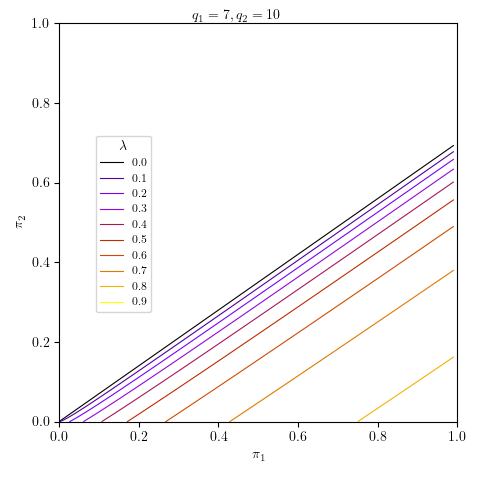
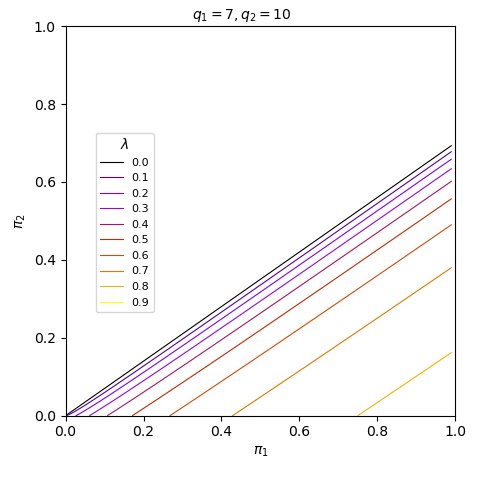
added N(s) in percolation.py

diff --git a/prw_network/percolation.py b/prw_network/percolation.py
@@ -5,6 +5,7 @@ import subprocess
 import os
 import glob
 import matplotlib.pyplot as plt
+from collections import Counter
 
 N = 492
 arena_r = 75.0
@@ -260,6 +261,44 @@ def componentsDistrBoxPlot(N, arena_r, irs, loops, infoLogFile=False):
         for i,ir in enumerate(irs):
             file.write(f'{ir}, {len(com_sizes_all_ir[i])}, {com_sizes_all_ir[i][:20]}\n')
         file.close()
+
+def plotComSizes_dif_loops(N: int, ar: float, irs: list[float], loopsList: list[int], excludeGiantComp=True, dataToFile = False, plotQuenched=True):
+    '''
+    comutes the ~power law~ like figure of the number of com of sizes s vs size s.
+    as each loop has a different critical percolation radius, a list irs has to be provided
+    '''
+    gcLabel = '' if excludeGiantComp else 'excludedGC'
+    loopsDF, irsDF, comsDF, countsDF = [], [], []
+    for ir, loops in zip(irs, loopsList):
+        com_sizes = getCommunitySizesAllTraj(N, ir, loops, excludeGiantComp=excludeGiantComp)
+        com_sizes_counter = Counter(com_sizes)
+        comsDF.extend(list(com_sizes_counter.keys()))
+        countsDF.extend(list(com_sizes_counter.values()))
+        loopsDF.extend([loops]*len(com_sizes_counter))
+        irsDF.extend([ir]*len(com_sizes_counter))
+    com_counts_df = pd.DataFrame({'loops':loopsDF, 'interac_r':irsDF, 'coms':comsDF, 'counts':countsDF})
+    com_counts_df = com_counts_df.sort_valyes(by=['loops', 'coms'], ignore_index=True)
+    if dataToFile:
+        filename = f'comSizesCounts_difLoops_N_{N}_ar_{ar}_kilombo_{gcLabel}.csv'
+        com_counts_df.to_csv(filename, index=False)
+    # plot:
+    fig, ax = plt.subplots()
+    ax.set(xlabel='s', ylabel='N(s)', xscale='log', yscale='log')
+    for ir, loops in zip(irs, loopsList):
+        auxdf = com_counts_df.query('loops == @loops')
+        ax.plot(auxdf['coms'], auxdf['counts'], label='{loops}, $r_i^{*} = {ir}', marker='.', ls='None')
+    if plotQuenched:
+        interac_r_q = 6.5 # de moment hard coded aqui
+        qDF = pd.read_csv(f'comSizesCounts_N_{N}_ar_{ar}_ir_{interac_r_q}_er_1.5_nopush_{gcLabel}.csv')
+        ax.plot(qDF['coms'], qDF['counts'], color='xkcd:gray', marker='x', ls='None', label='Quenched, r_i^{*} = {interac_r_q}')
+    fig.text(0.35, 0.97, f'$excludeGiantComp = {excludeGiantComp}$')
+    fig.legend(title='loops', loc=(0.8,0.7))
+    fig.tight_layout()
+    fig.savefig('comSizesCounts_difLoops_N_{N}_ar_{ar}_kilombo_{gcLabel}.png')
+    
+
+            
+            
 
 def componentsHistogram(N, arena_r, ir, loops):
     com_sizes = getCommunitySizesAllTraj(N, ir, loops, excludeGiantComp=True)

diff --git a/det_sols_from_polynomial/plot_Tlines_asym.py b/det_sols_from_polynomial/plot_Tlines_asym.py
@@ -22,7 +22,7 @@ def latexFont(size= 15, labelsize=18, titlesize=20, ticklabelssize=15, legendsiz
     ])    
     plt.rcParams["font.family"] = 'STIXGeneral'
 
-latexFont()
+#latexFont()
 
 
 ls = [l/10 for l in range(10)]
@@ -40,6 +40,7 @@ ax.set_aspect(1.0)
 fig.text(0.4, 0.96, rf'$q_1 = {q1}, q_2 = {q2}$')
 fig.tight_layout()
 fig.savefig(f'Tlines_asym_q1_{q1}_q2_{q2}_f2_{int(x)}f1.png')
+plt.close(fig)
 
 
 # anem a comprovar una cosa de la formula teorica de pi2:
@@ -52,6 +53,37 @@ fig.savefig(f'Tlines_asym_q1_{q1}_q2_{q2}_f2_{int(x)}f1.png')
 #     _, f0, _ = f0_lambda_neq_0(pi1, pi2, q1, q2, l)
 #     f0s.append(f0), f0lq2.append(f0*l*q2), f0lq1.append(f0*l*q1)
 
+
 # f0lq2, f0lq1 = np.array(f0lq2), np.array(f0lq1)
 # div = (1-f0lq2)/(1-f0lq1)
 # print(div)
+
+
+
+# T lines as a function of lambda; fixed pi1 (pi2 whatever)
+pi1s = [0.2, 0.4, 0.6, 0.8]
+colors = plt.cm.gnuplot(np.linspace(0,1,len(pi1s)))
+pi2s_l = [[],[],[],[]]
+for l in ls:
+    tline = pd.read_csv(f'res_files/Tline_asym_pis_q1_{q1}_q2_{q2}_l_{l}_f2_{int(x)}f1.csv')
+    for i,pi1 in enumerate(pi1s):
+        pi2 = tline.query('pi1 == @pi1')['pi2']
+        pi2s_l[i].append(pi2)
+fig, ax = plt.subplots()
+for i,pi in enumerate(pi1s):
+    ax.plot(ls, pi2s_l[i], label=f'{pi1}', color=colors[i])
+ax.set(xlabel='$\lambda$', ylabel='$\pi_2$')
+fig.text(0.4, 0.98, rf'$q_1 = {q1}, q_2 = {q2}$', fontsize=8)
+fig.tight_layout()
+fig.savefig(f'Tlines_asym_q1_{q1}_q2_{q2}_f2_{int(x)}f1_lambda.png')
+plt.close(fig)
+
+
+# prova equacio
+def aprox_pi2(pi1,q1,q2,l):
+    l0 = pi1*q1/q2
+    l0 = l0 * (1-l*q2)/(1-l*q1)
+    
+l = 0.4
+tline = pd.read_csv(f'res_files/Tline_asym_pis_q1_{q1}_q2_{q2}_l_{l}_f2_{int(x)}f1.csv')
+tline['aprox_pi2'] = tline.apply(lambda x: aprox_pi2(tline['pi1'], q1, q2, l)
